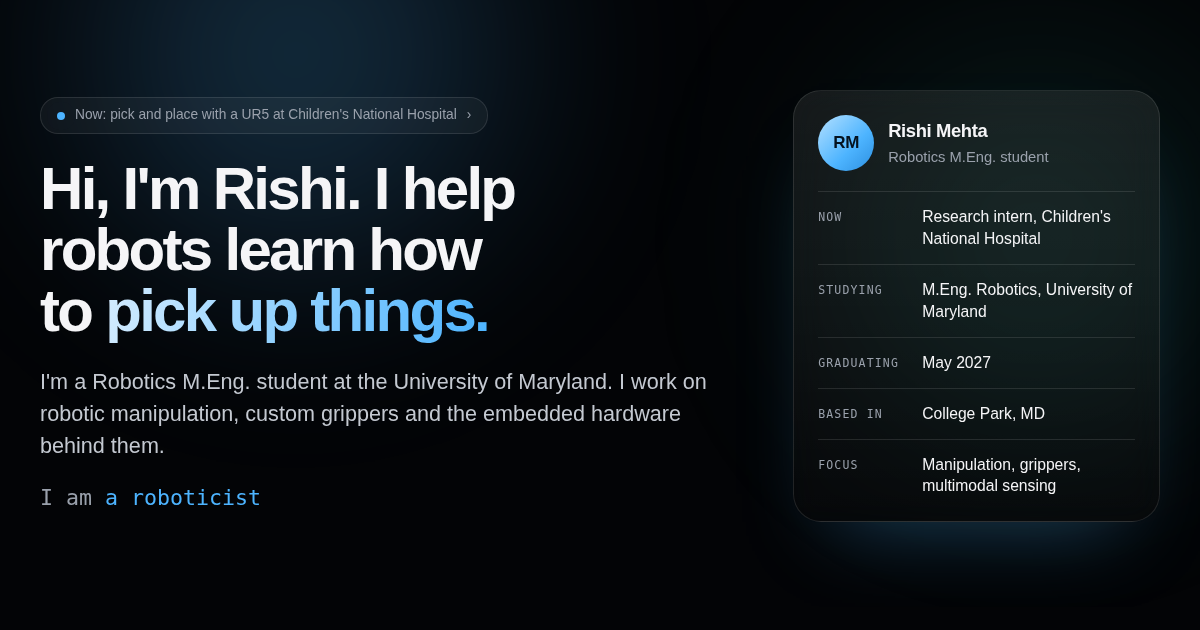
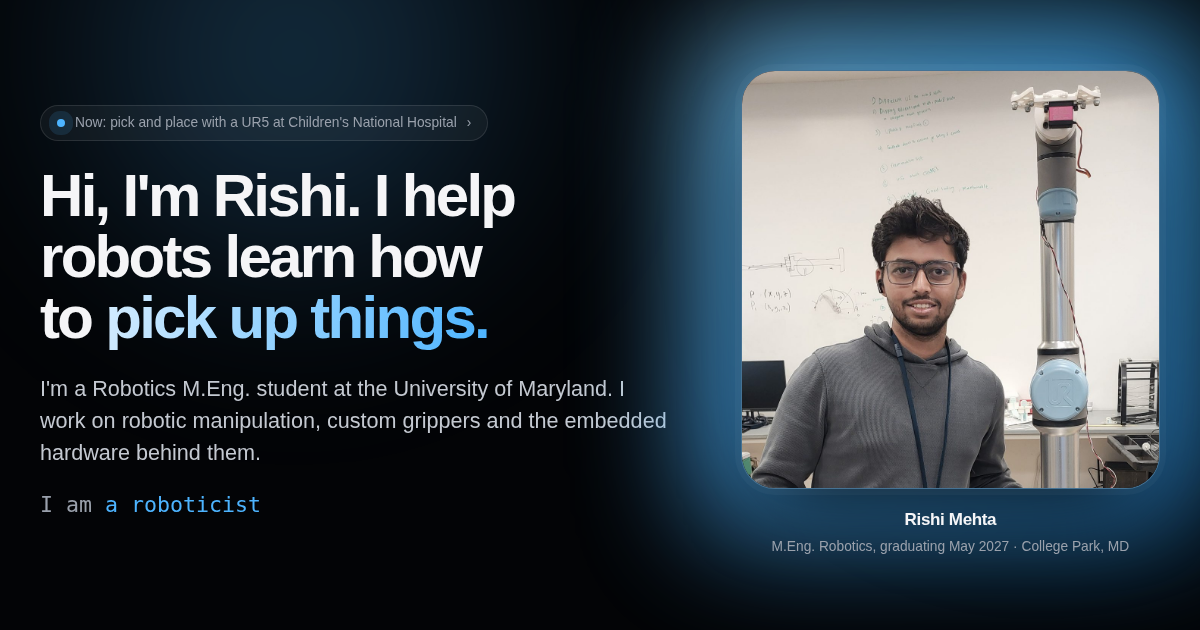
Portfolio site update

diff --git a/style.css b/style.css
@@ -102,7 +102,7 @@ h4 { margin: 0; font-weight: 600; text-wrap: balance; }
 .orb-a { width: 620px; height: 620px; left: 50%; top: -260px; margin-left: -620px; background: radial-gradient(circle, rgba(77, 180, 255, 0.55), transparent 70%); animation: drift 18s ease-in-out infinite alternate; }
 .orb-b { width: 520px; height: 520px; left: 50%; top: -60px; margin-left: 120px; background: radial-gradient(circle, rgba(64, 214, 190, 0.3), transparent 70%); animation: drift 22s ease-in-out infinite alternate-reverse; }
 @keyframes drift { to { transform: translate(60px, 40px) scale(1.12); } }
-.hero-grid { position: relative; z-index: 1; display: grid; grid-template-columns: minmax(0, 1.3fr) minmax(0, 0.7fr); gap: clamp(32px, 6vw, 88px); align-items: center; }
+.hero-grid { position: relative; z-index: 1; display: grid; grid-template-columns: minmax(0, 1.2fr) minmax(0, 0.8fr); gap: clamp(32px, 6vw, 88px); align-items: center; }
 .hero-copy { display: grid; justify-items: start; gap: 24px; }
 .eyebrow { display: inline-flex; align-items: center; gap: 10px; max-width: 100%; padding: 8px 16px; border: 1px solid var(--line); border-radius: 18px; background: var(--surface); font-size: 0.86rem; line-height: 1.35; color: var(--text-dim); text-decoration: none; transition: border-color 0.25s, color 0.25s; }
 .eyebrow:hover { border-color: var(--line-strong); color: var(--text); }
@@ -123,16 +123,16 @@ h4 { margin: 0; font-weight: 600; text-wrap: balance; }
 @keyframes blink { 50% { opacity: 0; } }
 .hero .cta-row { margin-top: 4px; }
 
-.profile { padding: 24px; border: 1px solid var(--line); border-radius: 28px; background: linear-gradient(180deg, rgba(255, 255, 255, 0.08), rgba(255, 255, 255, 0.02)); backdrop-filter: blur(16px); -webkit-backdrop-filter: blur(16px); box-shadow: 0 40px 80px -40px rgba(77, 180, 255, 0.35); }
-.profile-top { display: flex; align-items: center; gap: 14px; padding-bottom: 20px; border-bottom: 1px solid var(--line); }
-.avatar { flex: none; display: grid; place-items: center; width: 56px; height: 56px; border-radius: 50%; font-weight: 600; letter-spacing: -0.02em; color: var(--accent-ink); background: linear-gradient(135deg, #b4e0ff, #4db4ff 60%, #2c8fe0); }
-.profile-name { font-weight: 600; font-size: 1.15rem; letter-spacing: -0.02em; }
-.profile-role { color: var(--text-dim); font-size: 0.92rem; }
-.facts { margin: 0; display: grid; }
-.facts > div { display: grid; grid-template-columns: 92px minmax(0, 1fr); gap: 12px; padding-block: 14px; border-bottom: 1px solid var(--line); }
-.facts > div:last-child { border-bottom: 0; padding-bottom: 0; }
-.facts dt { padding-top: 3px; font-family: var(--font-mono); font-size: 0.72rem; letter-spacing: 0.1em; text-transform: uppercase; color: var(--text-dim); }
-.facts dd { margin: 0; font-size: 0.98rem; line-height: 1.4; }
+/* portrait: rounded square with a blue light that breathes behind it */
+.portrait { position: relative; margin: 0; width: min(100%, 460px); justify-self: center; display: grid; gap: 18px; }
+.portrait-glow { position: absolute; left: 0; top: 0; width: 100%; aspect-ratio: 1; z-index: 0; border-radius: 34px; background: linear-gradient(135deg, #7fd0ff, #4db4ff 45%, #2c8fe0); filter: blur(52px); opacity: 0.4; transform: scale(1.04); animation: breathe 6s ease-in-out infinite; pointer-events: none; will-change: transform, opacity; }
+@keyframes breathe { 0%, 100% { opacity: 0.32; transform: scale(1.02); } 50% { opacity: 0.85; transform: scale(1.2); } }
+.portrait-frame { position: relative; z-index: 1; aspect-ratio: 1; border-radius: 34px; overflow: hidden; background: #0a0d12; border: 1px solid rgba(255, 255, 255, 0.2); box-shadow: 0 0 0 6px rgba(255, 255, 255, 0.03), 0 40px 80px -30px rgba(0, 0, 0, 0.85); animation: frameGlow 6s ease-in-out infinite; }
+@keyframes frameGlow { 0%, 100% { border-color: rgba(255, 255, 255, 0.16); } 50% { border-color: rgba(120, 200, 255, 0.55); } }
+.portrait-frame img { display: block; width: 100%; height: 100%; object-fit: cover; }
+.portrait-cap { position: relative; z-index: 1; display: grid; gap: 2px; justify-items: center; text-align: center; }
+.portrait-cap strong { font-weight: 600; letter-spacing: -0.02em; }
+.portrait-cap span { color: var(--text-dim); font-size: 0.86rem; }
 
 .demo-wrap { position: relative; z-index: 1; margin-top: clamp(28px, 4vw, 48px); }
 .demo-frame { --s: 0.92; padding: 10px; border-radius: 30px; background: linear-gradient(180deg, rgba(255, 255, 255, 0.16), rgba(255, 255, 255, 0.04)); box-shadow: 0 70px 130px -40px rgba(77, 180, 255, 0.3), 0 0 0 1px rgba(255, 255, 255, 0.08) inset; transform: scale(var(--s)); transform-origin: 50% 0; will-change: transform; }
@@ -350,7 +350,7 @@ h4 { margin: 0; font-weight: 600; text-wrap: balance; }
 /* ---------- responsive ---------- */
 @media (max-width: 960px) {
   .hero-grid { grid-template-columns: minmax(0, 1fr); }
-  .profile { max-width: 520px; }
+  .portrait { width: min(100%, 380px); justify-self: start; }
   .glance-grid { grid-template-columns: 1fr 1fr; }
   .stat:nth-child(3) { border-left: 0; padding-left: 0; }
   .stat:nth-child(n+3) { border-top: 1px solid var(--line); }
@@ -370,7 +370,6 @@ h4 { margin: 0; font-weight: 600; text-wrap: balance; }
   .subnav-links { margin-inline: -8px; }
 }
 @media (max-width: 560px) {
-  .facts > div { grid-template-columns: 1fr; gap: 2px; }
   .flow { flex-wrap: wrap; }
   .flow-line { display: none; }
   .specs > div { grid-template-columns: 1fr; gap: 4px; }
@@ -386,6 +385,7 @@ h4 { margin: 0; font-weight: 600; text-wrap: balance; }
   .statement-text .w { color: var(--text); }
   .bar::after { transform: scaleX(1); }
   .shot img { transform: none; }
+  .portrait-glow { opacity: 0.6; transform: scale(1.1); }
   .grip { transform: translate(1130px, 190px); }
   .jaw-l { transform: translateX(-16px); }
   .jaw-r { transform: translateX(16px); }

diff --git a/index.html b/index.html
@@ -50,22 +50,13 @@
           </div>
         </div>
 
-        <aside class="profile reveal" style="--d:200ms" aria-label="Quick facts">
-          <div class="profile-top">
-            <span class="avatar" aria-hidden="true">RM</span>
-            <div>
-              <p class="profile-name">Rishi Mehta</p>
-              <p class="profile-role">Robotics M.Eng. student</p>
-            </div>
+        <figure class="portrait reveal" style="--d:200ms">
+          <span class="portrait-glow" aria-hidden="true"></span>
+          <div class="portrait-frame">
+            <img src="assets/rishi.jpg" width="1100" height="1100" decoding="async" fetchpriority="high" alt="Rishi standing next to a UR5 robot arm with his custom gripper mounted on top, in the lab">
           </div>
-          <dl class="facts">
-            <div><dt>Now</dt><dd>Research intern, Children's National Hospital</dd></div>
-            <div><dt>Studying</dt><dd>M.Eng. Robotics, University of Maryland</dd></div>
-            <div><dt>Graduating</dt><dd>May 2027</dd></div>
-            <div><dt>Based in</dt><dd>College Park, MD</dd></div>
-            <div><dt>Focus</dt><dd>Manipulation, grippers, multimodal sensing</dd></div>
-          </dl>
-        </aside>
+          <figcaption class="portrait-cap"><strong>Rishi Mehta</strong><span>M.Eng. Robotics, graduating May 2027 &middot; College Park, MD</span></figcaption>
+        </figure>
       </div>
     </section>
 

diff --git a/README.md b/README.md
@@ -7,6 +7,7 @@ index.html
 style.css
 script.js
 assets/
+  rishi.jpg               <- your photo in the intro (square crop)
   pickandplace.mp4        <- the demo video (plays on the page)
   poster.jpg              <- the frame shown before playing
   gripper-*.jpg           <- photos that fade in the Hardware card
@@ -32,6 +33,10 @@ ffmpeg -ss 44 -i input.mov -frames:v 1 -vf scale=1600:-2 -q:v 3 assets/poster.jp
 ```
 
 The caption also links to the YouTube version. Change that link in `index.html` (search for `youtu.be`).
+
+## Change the intro photo
+
+Replace `assets/rishi.jpg` with a square JPG (about 1100 x 1100). The caption under it is the `<figcaption class="portrait-cap">` in `index.html`. The blue glow is `.portrait-glow` in `style.css`; change `6s` in the `breathe` animation to speed it up or slow it down.
 
 ## Change the fading photos
 
